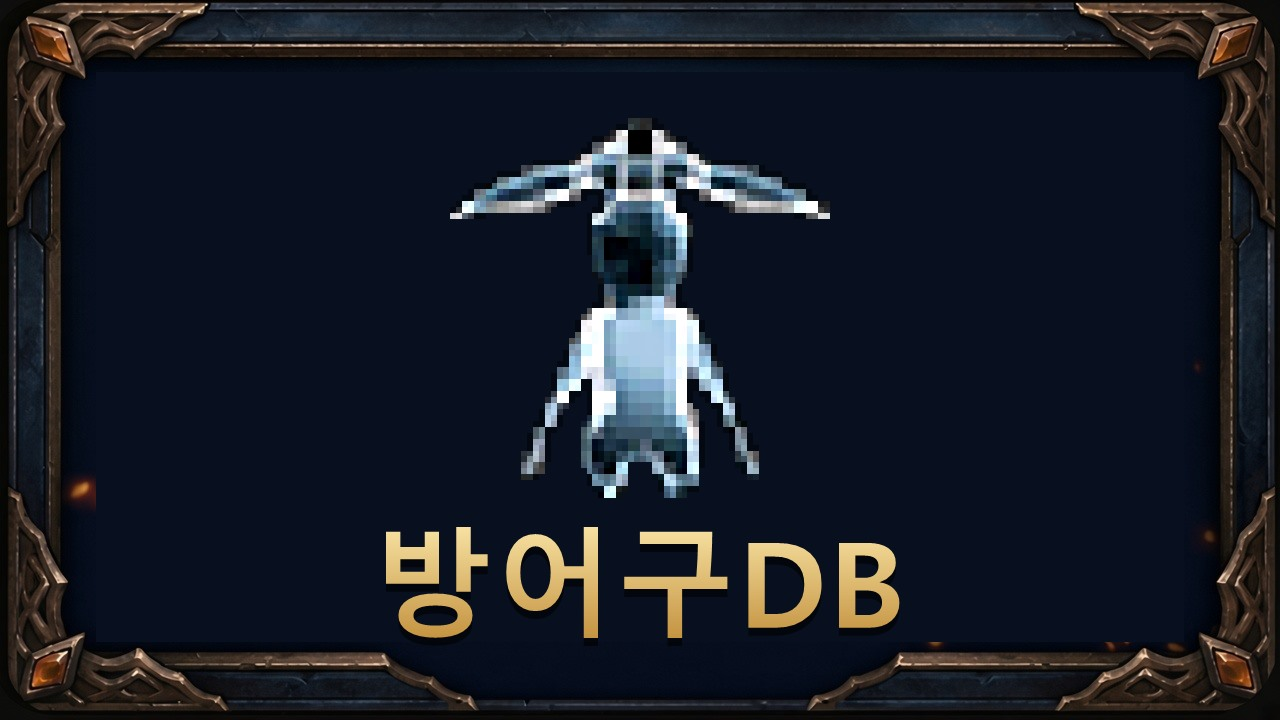
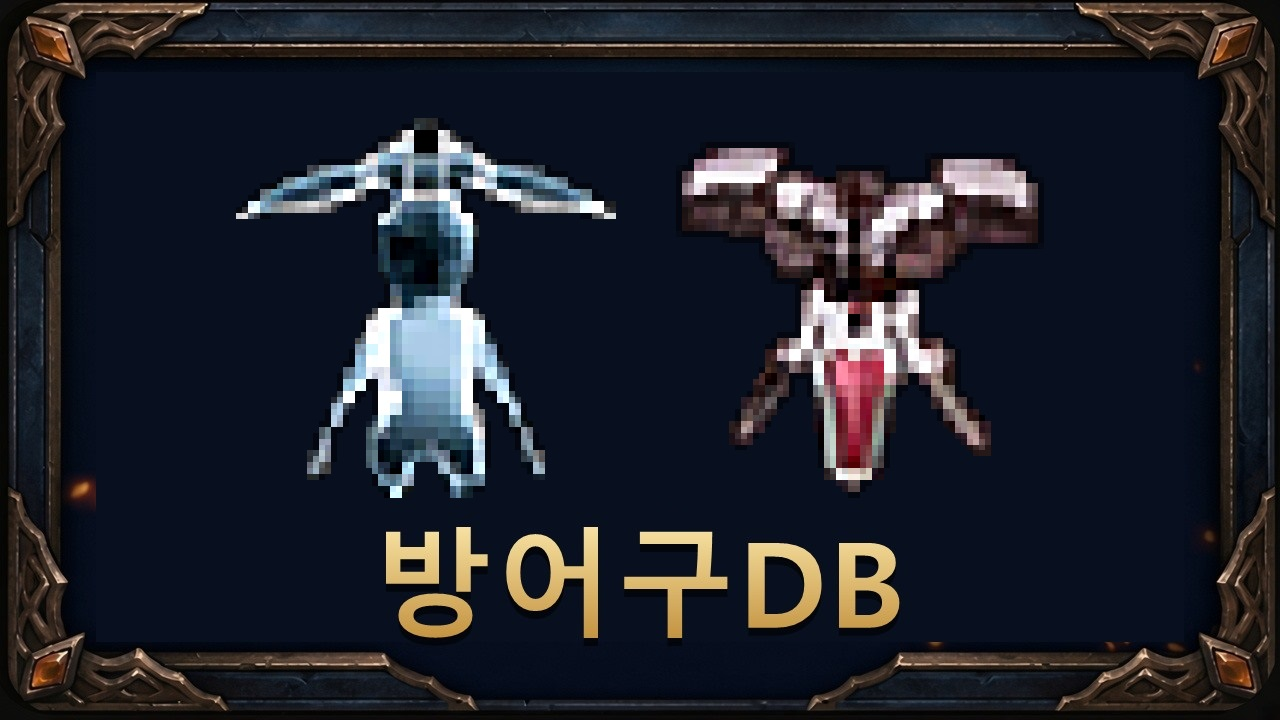
Guide: armor DB button with plate and fire dragon scale armor

Changed region(s): [[0.1875, 0.1528, 0.8125, 0.7028]]

diff --git a/guide/items-armor.html b/guide/items-armor.html
@@ -16,7 +16,7 @@
       <a class="home-btn" href="./"><svg viewBox="0 0 24 24" aria-hidden="true"><path d="M3 11.5 12 4l9 7.5M5.5 9.5V20h5v-6h3v6h5V9.5"/></svg>홈</a>
       <nav class="db-nav">
       <a href="items-weapon.html"><img src="btn-item-weapon.jpg" alt="무기DB"></a>
-      <a href="items-armor.html" class="on" aria-current="page"><img src="btn-item-armor.jpg" alt="방어구DB"></a>
+      <a href="items-armor.html" class="on" aria-current="page"><img src="btn-item-armor.jpg?v=2" alt="방어구DB"></a>
       <a href="items-accessory.html"><img src="btn-item-accessory.jpg" alt="장신구DB"></a>
       <a href="items-etc.html"><img src="btn-item-etc.jpg" alt="기타DB"></a>
       </nav>

diff --git a/guide/items-accessory.html b/guide/items-accessory.html
@@ -16,7 +16,7 @@
       <a class="home-btn" href="./"><svg viewBox="0 0 24 24" aria-hidden="true"><path d="M3 11.5 12 4l9 7.5M5.5 9.5V20h5v-6h3v6h5V9.5"/></svg>홈</a>
       <nav class="db-nav">
       <a href="items-weapon.html"><img src="btn-item-weapon.jpg" alt="무기DB"></a>
-      <a href="items-armor.html"><img src="btn-item-armor.jpg" alt="방어구DB"></a>
+      <a href="items-armor.html"><img src="btn-item-armor.jpg?v=2" alt="방어구DB"></a>
       <a href="items-accessory.html" class="on" aria-current="page"><img src="btn-item-accessory.jpg" alt="장신구DB"></a>
       <a href="items-etc.html"><img src="btn-item-etc.jpg" alt="기타DB"></a>
       </nav>

diff --git a/guide/items-etc.html b/guide/items-etc.html
@@ -16,7 +16,7 @@
       <a class="home-btn" href="./"><svg viewBox="0 0 24 24" aria-hidden="true"><path d="M3 11.5 12 4l9 7.5M5.5 9.5V20h5v-6h3v6h5V9.5"/></svg>홈</a>
       <nav class="db-nav">
       <a href="items-weapon.html"><img src="btn-item-weapon.jpg" alt="무기DB"></a>
-      <a href="items-armor.html"><img src="btn-item-armor.jpg" alt="방어구DB"></a>
+      <a href="items-armor.html"><img src="btn-item-armor.jpg?v=2" alt="방어구DB"></a>
       <a href="items-accessory.html"><img src="btn-item-accessory.jpg" alt="장신구DB"></a>
       <a href="items-etc.html" class="on" aria-current="page"><img src="btn-item-etc.jpg" alt="기타DB"></a>
       </nav>

diff --git a/guide/items-weapon.html b/guide/items-weapon.html
@@ -16,7 +16,7 @@
       <a class="home-btn" href="./"><svg viewBox="0 0 24 24" aria-hidden="true"><path d="M3 11.5 12 4l9 7.5M5.5 9.5V20h5v-6h3v6h5V9.5"/></svg>홈</a>
       <nav class="db-nav">
       <a href="items-weapon.html" class="on" aria-current="page"><img src="btn-item-weapon.jpg" alt="무기DB"></a>
-      <a href="items-armor.html"><img src="btn-item-armor.jpg" alt="방어구DB"></a>
+      <a href="items-armor.html"><img src="btn-item-armor.jpg?v=2" alt="방어구DB"></a>
       <a href="items-accessory.html"><img src="btn-item-accessory.jpg" alt="장신구DB"></a>
       <a href="items-etc.html"><img src="btn-item-etc.jpg" alt="기타DB"></a>
       </nav>

diff --git a/guide/index.html b/guide/index.html
@@ -246,7 +246,7 @@
     <div class="tools">
       <div class="item-cats">
         <a href="items-weapon.html"><img src="btn-item-weapon.jpg" alt="무기DB"></a>
-        <a href="items-armor.html"><img src="btn-item-armor.jpg" alt="방어구DB"></a>
+        <a href="items-armor.html"><img src="btn-item-armor.jpg?v=2" alt="방어구DB"></a>
         <a href="items-accessory.html"><img src="btn-item-accessory.jpg" alt="장신구DB"></a>
         <a href="items-etc.html"><img src="btn-item-etc.jpg" alt="기타DB"></a>
       </div>
